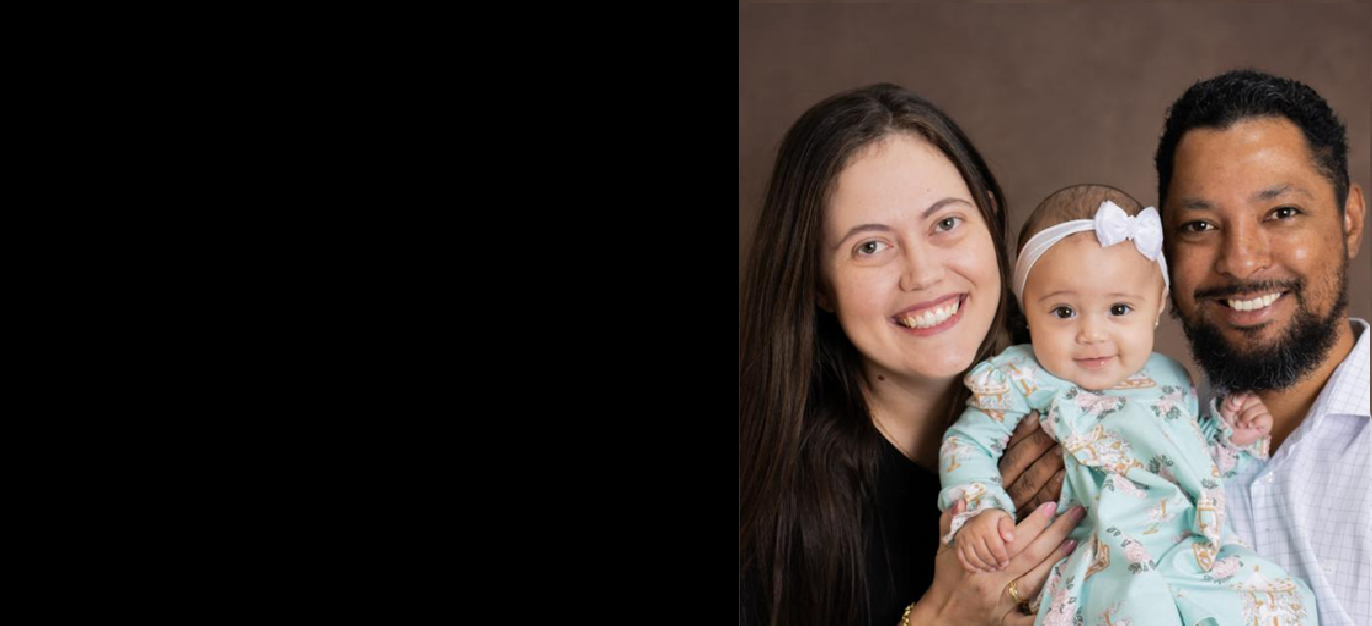
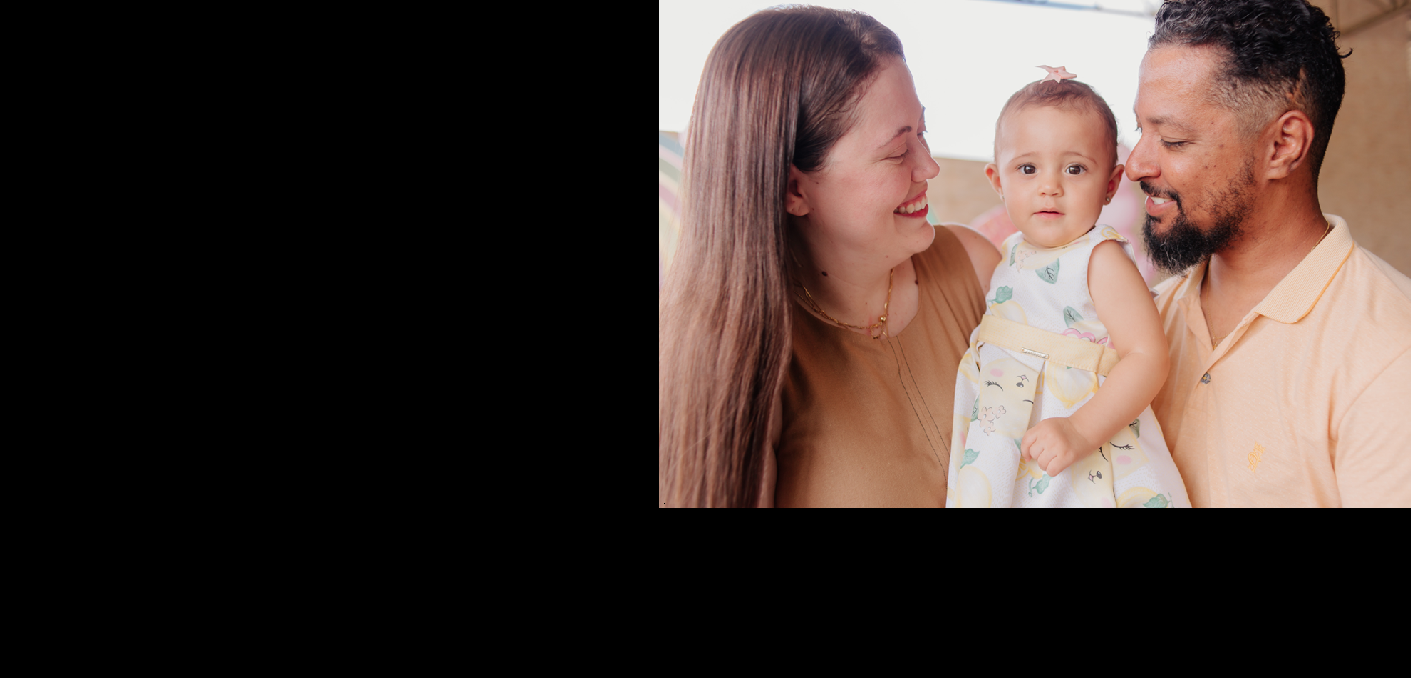
novoSite4 commit

diff --git a/assets/css/style.css b/assets/css/style.css
@@ -143,7 +143,7 @@ button { cursor: pointer; }
 /* Main - Home */
 
 .main { margin-left: 100px; }
-.home { background-image: url("../img/site.png"); background-size: cover; background-position: center center; height: 100vh; }
+.home { background-image: url("../img/site1.png"); background-size: cover; background-position: center center; height: 100vh; }
 .home-container { position: relative; height: 100%; align-items: center; }
 .home-social { position: absolute; top: 1.8rem; left: 0; display: flex; align-items: center; column-gap: 3.5rem; }
 .home-social-follow { font-weight: var(--font-medium); position: relative; }
